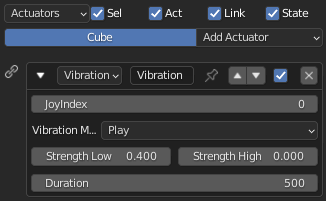
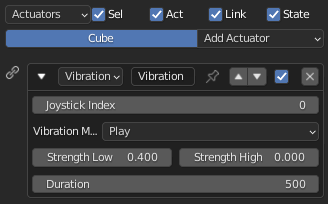
Update vibration.rst

diff --git a/source/manual/logic/actuators/types/vibration.rst b/source/manual/logic/actuators/types/vibration.rst
@@ -13,23 +13,27 @@ The *Vibration Actuator* allows the user to control the joystick vibration durin
 
    Vibration Actuator.
 
+.. tip::
+
+   The vibration can be updated in every logic tick. This way different vibration effects
+   can be performed (sin, up/down, etc).
 
 Properties
 ==========
 
-Joy Index
-   XXX
+Joystick Index
+   Specifies in which joystick to control the vibration.
 Vibration Mode
    Play
-      XXX
+      Play the vibration for *Duration* time.
    Stop
-      XXX
+      Stop the vibration.
 Strength Low Freq
-   XXX
+   Vibration strength for the low frequency motor (usually at gamepad left).
 Strength High Freq
-   XXX
+   Vibration strength for the high frequency motor (usually at gamepad right).
 Duration
-   XXX
+   Duration (in milliseconds) of the vibration.
 
 
 Example

diff --git a/source/manual/logic/actuators/index.rst b/source/manual/logic/actuators/index.rst
@@ -36,4 +36,5 @@ Actuators Types
    types/sound.rst
    types/state.rst
    types/steering.rst
+   types/vibration.rst
    types/visibility.rst
